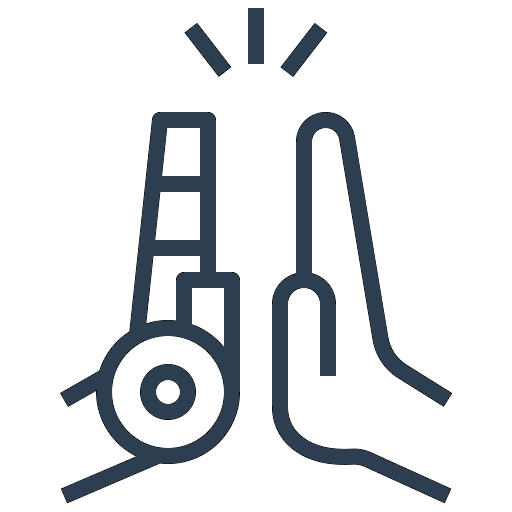
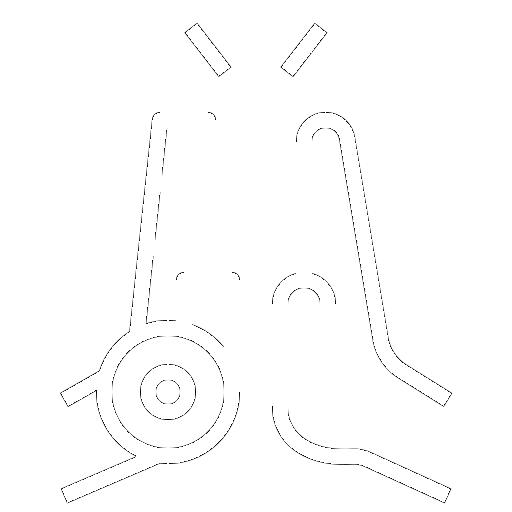
corrected colors

diff --git a/index.html b/index.html
@@ -197,7 +197,7 @@
                 <!-- Contact Section Heading-->
                 <h2 class="page-section-heading text-center text-uppercase text-secondary mb-0">Contact Me</h2>
                 <!-- Icon Divider-->
-                <div class="divider-custom">
+                <div class="divider-custom divider-light">
                     <div class="divider-custom-line"></div>
                     <div class="divider-custom-icon"><img src="images/technology.png" height="65" width="65"></img></div>
                     <div class="divider-custom-line"></div>

diff --git a/css/styles.css b/css/styles.css
@@ -8041,7 +8041,7 @@ textarea.form-control-lg {
 
 .text-secondary {
   --bs-text-opacity: 1;
-  color: rgba(var(--bs-secondary-rgb), var(--bs-text-opacity)) !important;
+  color: #fff !important;
 }
 
 .text-success {
